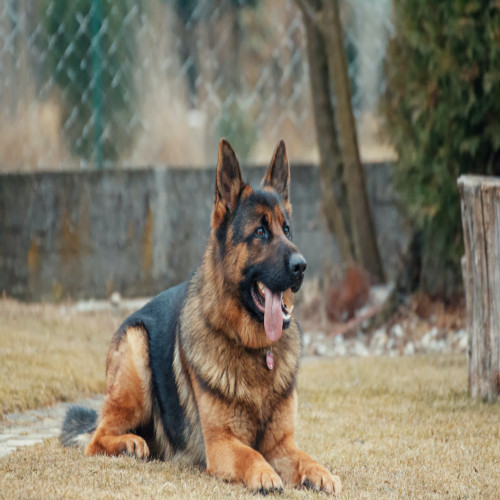
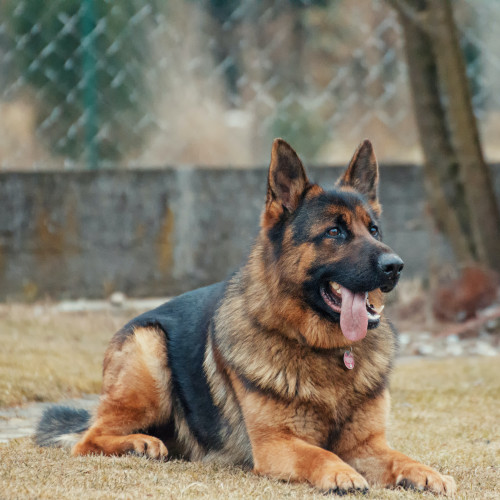
better doggo pic and added links to the transforms module

diff --git a/gallery/plot_scripted_tensor_transforms.py b/gallery/plot_scripted_tensor_transforms.py
@@ -3,9 +3,10 @@
 Tensor transforms and JIT
 =========================
 
-This example illustrates various features that are now supported by the image
-transformations on Tensor images. In particular, we show how image transforms
-can be performed on GPU, and how one can also script them using JIT compilation.
+This example illustrates various features that are now supported by the
+:ref:`image transformations <transforms>` on Tensor images. In particular, we
+show how image transforms can be performed on GPU, and how one can also script
+them using JIT compilation.
 
 Prior to v0.8.0, transforms in torchvision have traditionally been PIL-centric
 and presented multiple limitations due to that. Now, since v0.8.0, transforms

diff --git a/gallery/plot_transforms.py b/gallery/plot_transforms.py
@@ -3,7 +3,8 @@
 Illustration of transforms
 ==========================
 
-This example illustrates the various transforms available in :mod:`torchvision.transforms`.
+This example illustrates the various transforms available in :ref:`the
+torchvision.transforms module <transforms>`.
 """
 
 from PIL import Image

diff --git a/docs/source/transforms.rst b/docs/source/transforms.rst
@@ -1,3 +1,5 @@
+.. _transforms:
+
 torchvision.transforms
 ======================
 
